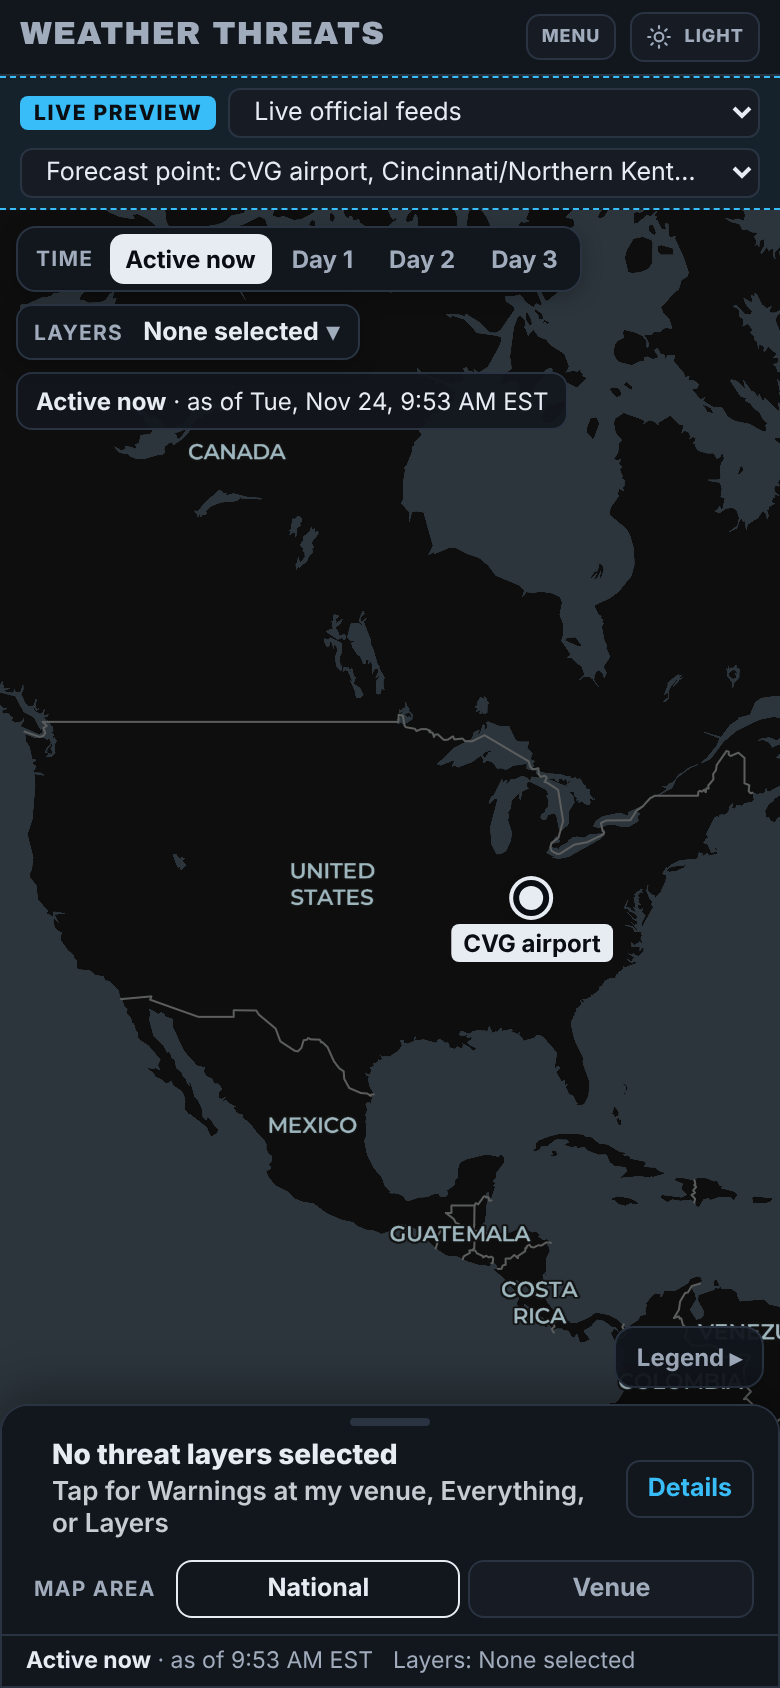
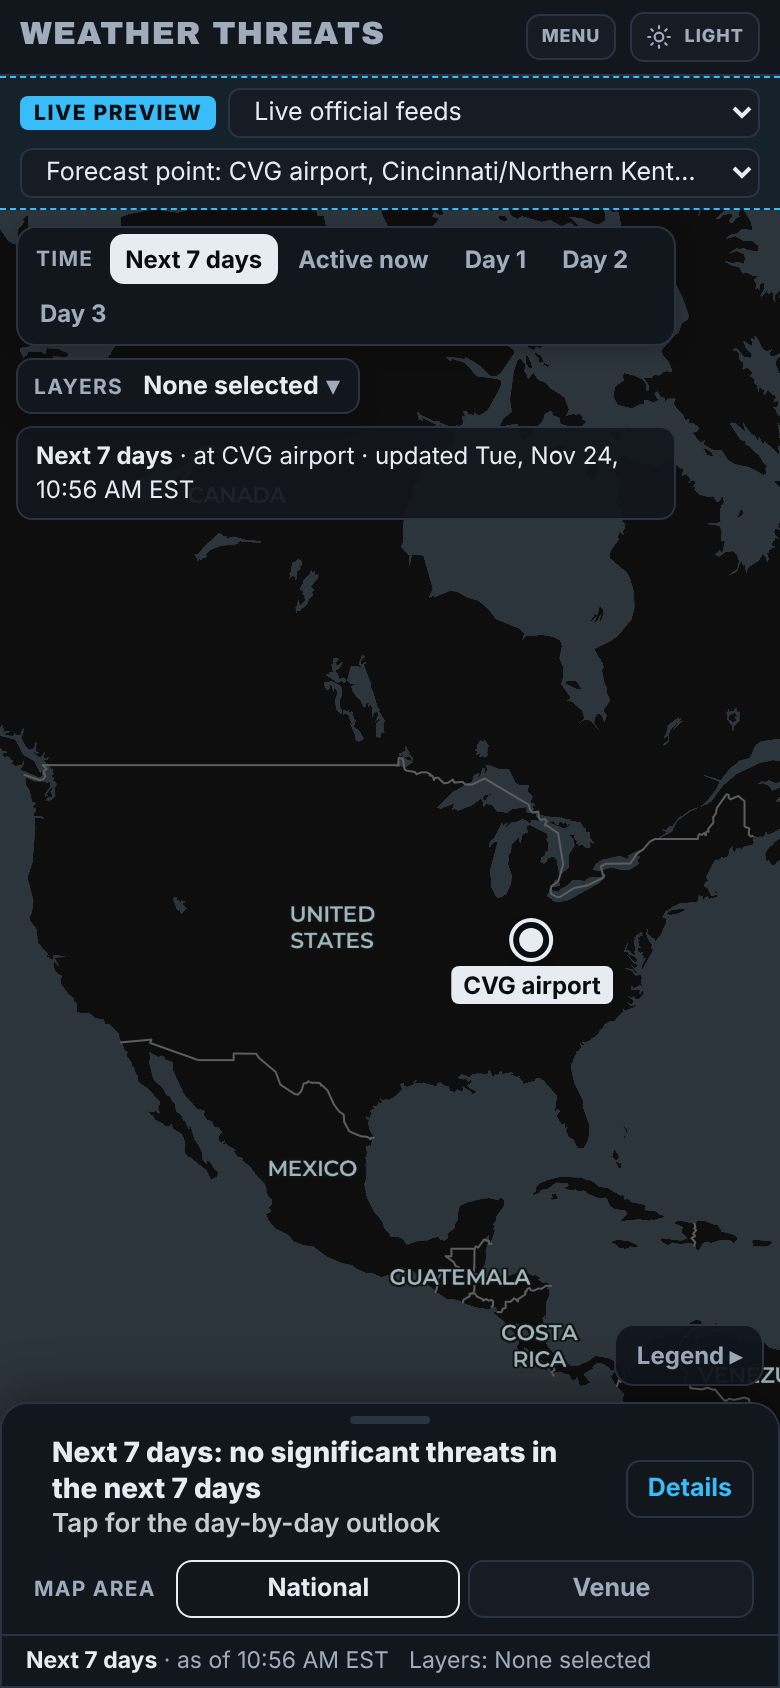
Threats map defaults: radar and the current NWS warnings, watches and advisories on a fresh visit
Severe storms (with storm reports and MDs), Flooding, Winter, Heat & cold, Wind & visibility, Tropical and Coastal, plus radar;
Fire, Smoke & air and Aviation stay off. The panel still opens on the 7-day dashboard. ?layers=none opens with nothing on,
?radar=0 without radar; links that name layers keep them. Checks: the fresh visit expects these defaults; the request-count
sequence starts from ?layers=none.

Claude-Session: https://claude.ai/code/session_01FuwsTd1ts8sKppqNdRhNWw

diff --git a/tools/threats-feeds-check.js b/tools/threats-feeds-check.js
@@ -62,18 +62,22 @@ const DEV = { desktop: { viewport: { width: 1440, height: 900 } }, phone: { view
         feeds: window.ThreatsLive.mapFeeds ? window.ThreatsLive.mapFeeds() : "n/a", products: T.data.products.length }; });
     const since = (reqs, t0) => reqs.filter((r) => r.t >= t0);
 
-    /* 1-4: fresh visit, open the picker, Severe storms alone, then off again */
+    /* 1: a fresh visit: the 7-day dashboard, with radar and the warning, watch and advisory layers on (fire, smoke, aviation off) */
     { const { ctx, p, reqs, other, errs } = await page();
       await p.goto(HOST + PAGE, { waitUntil: "domcontentloaded" }); await ready(p);
-      await p.waitForFunction(() => window.__threats.outlook && ["ok", "failed"].includes(window.__threats.outlook.state), null, { timeout: 120000 }).catch(() => {}); await p.waitForTimeout(3000);
-      const s0 = await state(p), dash = await p.evaluate(() => ({ view: window.__threats.S.view, state: window.__threats.outlook.state, days: document.querySelectorAll("#txPanelBody .px-olday").length, head: (document.querySelector("#txPanelBody .px-olhead .px-big") || {}).textContent, presets: document.querySelectorAll("#txPanelBody [data-preset]").length }));
+      await p.waitForFunction(() => window.__threats.outlook && ["ok", "failed"].includes(window.__threats.outlook.state), null, { timeout: 120000 }).catch(() => {}); await p.waitForTimeout(4000);
+      const s0 = await state(p), dash = await p.evaluate(() => ({ view: window.__threats.S.view, state: window.__threats.outlook.state, days: document.querySelectorAll("#txPanelBody .px-olday").length, head: (document.querySelector("#txPanelBody .px-olhead .px-big") || {}).textContent, radar: window.__threats.radar.state, radarOn: window.__threats.S.radar }));
       const by0 = tally(reqs); rec.fresh = { requests: reqs.length, byFeed: by0, other: Object.fromEntries(other), state: s0, dash };
       await p.screenshot({ path: path.join(OUT, `fresh-${d}.png`) });
-      /* the dashboard's sources only: alerts at the venue's point, its NWS forecast grid, SPC Days 1-8 and fire, WPC rainfall and WSSI-P, NHC,
-         AirNow forecast (through /api/smoke), NOAA river gauges near the venue; never a map layer's feeds (zone outlines, MDs, storm reports, NIFC, HMS smoke, monitors, aviation) */
-      const DASH = ["alerts", "spc", "ero", "fire", "wssi", "nhc", "airnow", "hms", "nws-other", "gauges"], notMap = Object.keys(by0).every((k) => DASH.includes(k)) && !reqs.some((r) => r.feed === "hms" && !/airnow-area/.test(r.url));
-      check(`(${d}) FRESH VISIT: the venue's 7-day dashboard ('${dash.head}', ${dash.days} days) with map layers off ("Layers · None selected"), basemap and venue marker; only the dashboard's sources (${Object.entries(by0).map(([k, v]) => k + " " + v).join(", ")}), no map-layer feed`,
-        dash.view === "outlook" && dash.state === "ok" && dash.days === 7 && dash.presets >= 2 && !s0.layers.length && s0.sum === "None selected" && /^Layers\s*·?\s*None selected/i.test(s0.btn) && s0.basemap && s0.marker && Array.isArray(s0.feeds) && !s0.feeds.length && notMap && !errs.length, { dash, by0, s0, errs });
+      const DEF = ["severe", "flood", "winter", "heat", "wind", "tropical", "coastal"], NOT = ["nifc", "fire-map", "monitors", "awc"], fireMap = reqs.some((r) => r.feed === "fire" && Date.now()); // fire outlooks may come from the dashboard
+      check(`(${d}) FRESH VISIT: the 7-day dashboard ('${dash.head}'); map defaults ${s0.sum}: radar plus the warning, watch and advisory layers; fire, smoke and aviation off (requests: ${Object.entries(by0).map(([k, v]) => k + " " + v).join(", ")})`,
+        dash.view === "outlook" && dash.state === "ok" && dash.days === 7 && dash.radarOn && JSON.stringify(s0.layers) === JSON.stringify(DEF) && s0.sum === "Severe storms, Flooding +5 + Radar" && JSON.stringify(s0.feeds) === '["alerts","ero","md","nhc","reports","spc"]' && by0.alerts >= 1 && !by0.nifc && !by0.monitors && !by0.awc && s0.basemap && s0.marker && !errs.length, { dash, by0, s0, errs });
+      await ctx.close(); }
+    /* 2-4: from no layers (?layers=none): open the picker, Severe storms alone, then off again */
+    { const { ctx, p, reqs, other, errs } = await page();
+      await p.goto(HOST + PAGE + "?layers=none&view=active", { waitUntil: "domcontentloaded" }); await ready(p); await p.waitForTimeout(6000);
+      const s0 = await state(p);
+      check(`(${d}) ?layers=none: every layer off, 'Layers · None selected', no threat-feed request (${reqs.length})`, reqs.length === 0 && !s0.layers.length && s0.sum === "None selected" && !errs.length, { s0, reqs: reqs.map((r) => r.url), errs });
       let t0 = Date.now(); await p.click("#txLayersBtn"); await p.waitForTimeout(5000);
       const pick = since(reqs, t0), sp = await p.evaluate(() => !document.getElementById("txLayersPop").hidden); rec.pickerOpen = { requests: pick.length, byFeed: tally(pick) };
       await p.screenshot({ path: path.join(OUT, `picker-open-${d}.png`) });

diff --git a/tools/threats-fixes-check.js b/tools/threats-fixes-check.js
@@ -45,7 +45,7 @@ const DEV = { desktop: { viewport: { width: 1440, height: 900 } }, phone: { view
       return how; };
 
     /* PRESETS, from a fresh visit */
-    { const { p, reqs, errs } = await page("?view=active", null); await p.waitForTimeout(3000);
+    { const { p, reqs, errs } = await page("?view=active&layers=none", null); await p.waitForTimeout(3000);
       const t0 = Date.now(); await tap(p, '[data-preset="venue"]'); await p.waitForFunction(() => window.__threats.liveReady && !window.__threats.data.loading, null, { timeout: 60000 }); await p.waitForTimeout(6000);
       const st = await p.evaluate(() => ({ layers: Object.keys(window.__threats.S.layers).filter((k) => window.__threats.S.layers[k]), scope: window.__threats.S.scope, feeds: window.ThreatsLive.mapFeeds(), sum: document.getElementById("txLayersSum").textContent }));
       const by = tally(since(reqs, t0)); R.presetVenue = { st, by };
@@ -177,7 +177,7 @@ const DEV = { desktop: { viewport: { width: 1440, height: 900 } }, phone: { view
       const r = await p.evaluate(() => ({ n: window.__threats.data.products.length, watch: window.__threats.data.products.filter((x) => x.kind === "watch").map((x) => x.event), drawn: window.__threats.map.getSource("active")._data.features.length, err: window.__threats.data.loadError, panel: document.getElementById("txPanelBody").innerText.slice(0, 160) }));
       R.ww705 = r; check(`(${d}) REPLAY SPC Tornado Watch 705 loads and draws (${r.watch.join(", ")})`, !r.err && r.watch.includes("Tornado Watch") && r.drawn >= 1 && !errs.length, { r, errs }); await p.screenshot({ path: path.join(OUT, `replay-ww705-${d}.png`) }); await p.close(); }
     /* RADAR: from none; image time; tiles; off stops it; demo: live only */
-    { const { p, reqs, errs } = await page("?view=active"); await p.waitForTimeout(2000); const t0 = Date.now();
+    { const { p, reqs, errs } = await page("?view=active&layers=none"); await p.waitForTimeout(2000); const t0 = Date.now();
       await tap(p, "#txLayersBtn"); await p.locator("#txLayersPop input[data-radar]").check(); await tap(p, "#txLayersPop [data-layers-close]");
       await p.waitForFunction(() => window.__threats.radar.state === "ok" && window.__threats.map.getLayer("radar") && window.__threats.map.areTilesLoaded(), null, { timeout: 60000 }).catch(() => {}); await p.waitForTimeout(3000);
       const on = since(reqs, t0), by = tally(on), st = await p.evaluate(() => { const T = window.__threats, m = T.map; return { state: T.radar.state, valid: T.radar.valid, vis: m.getLayer("radar") && m.getLayoutProperty("radar", "visibility"), below: m.getStyle().layers.findIndex((l) => l.id === "radar") < m.getStyle().layers.findIndex((l) => l.id === "outlook-fill"), sum: document.getElementById("txLayersSum").textContent, row: (document.querySelector('[data-src="radar"]') || {}).innerText, feeds: window.ThreatsLive.mapFeeds() }; });
@@ -192,7 +192,7 @@ const DEV = { desktop: { viewport: { width: 1440, height: 900 } }, phone: { view
     { const { p } = await page("?scenario=overlap&radar=1"); await p.waitForTimeout(1500); const r = await p.evaluate(() => ({ dis: document.querySelector("#txLayersPop input[data-radar]").disabled, layer: !!window.__threats.map.getLayer("radar"), sum: document.getElementById("txLayersSum").textContent }));
       check(`(${d}) RADAR is live only: unavailable on a demo or replay (summary '${r.sum}')`, r.dis && !r.layer && !/Radar/.test(r.sum), r); await p.close(); }
     /* VENUE FORECAST, on request, with no layer on */
-    { const { p, reqs, errs } = await page("?view=active&scope=venue&lat=39.1113&lon=-84.5222&name=TQL%20Stadium&tz=America%2FNew_York"); await p.waitForTimeout(2000);
+    { const { p, reqs, errs } = await page("?view=active&layers=none&scope=venue&lat=39.1113&lon=-84.5222&name=TQL%20Stadium&tz=America%2FNew_York"); await p.waitForTimeout(2000);
       const before = reqs.length, t0 = Date.now(); await tap(p, "[data-vfc]"); await p.waitForSelector('[data-vfc-state="ok"], [data-vfc-state="failed"]', { timeout: 60000 });
       const r = await p.evaluate(() => { const g = document.querySelector(".px-vfc"); return { state: g && g.dataset.vfcState, sum: (document.querySelector(".px-vfcsum") || {}).textContent, rows: document.querySelectorAll(".px-vfcgrid [role=row]").length - 1, foot: ((g && g.querySelector(".lg-note")) || {}).textContent, hs: document.documentElement.scrollWidth > window.innerWidth + 1, data: window.__threats.vfc.data && { office: window.__threats.vfc.data.office, peakGust: window.__threats.vfc.data.peakGust } }; });
       const by = tally(since(reqs, t0)); await p.evaluate(() => window.__threats.drawAll()); await p.waitForTimeout(1000); const again = tally(since(reqs, t0)); R.vfc = { r, by, before };

diff --git a/assets/threats.js b/assets/threats.js
@@ -1624,6 +1624,9 @@
     if (q.get("layers")) { const L = q.get("layers").split(","); if (L.includes("aviation")) S.en.on = true; S.layers = { severe: L.includes("severe"), flood: L.includes("flood"), winter: L.includes("winter"), fire: L.includes("fire"), smoke: L.includes("smoke"), tropical: L.includes("tropical"), coastal: L.includes("coastal"), aviation: L.includes("aviation"), heat: L.includes("heat"), wind: L.includes("wind") }; }
     else if (S.scenario !== "live") Object.keys(S.layers).forEach((k) => (S.layers[k] = true)); // demo and archived samples: their shared selection is every layer
     else if (S.gtg.on || S.ifi.on || q.get("air") || q.get("rt") || q.get("alt")) S.layers.aviation = true; // a live link naming aviation content and no layers
+    /* a fresh live visit: radar and the current NWS warnings, watches and advisories (with storm reports and MDs); fire, smoke and
+       aviation stay off until chosen. ?layers=none opens with nothing, ?radar=0 without radar */
+    else { ["severe", "flood", "winter", "heat", "wind", "tropical", "coastal"].forEach((k) => (S.layers[k] = true)); if (q.get("radar") !== "0") S.radar = true; }
     if (S.view === "winter") S.layers.winter = true;
     if (S.view === "fire") S.layers.fire = true;
     if (FX.WSSI_LEVELS.includes(q.get("wlevel"))) S.wlevel = q.get("wlevel");

diff --git a/threats.html b/threats.html
@@ -177,6 +177,6 @@
 <script src="assets/threats-ifi.js?v=1a8301f4fa"></script>
 <script src="assets/threats-outlook.js?v=882bf1c8ad"></script>
 <script src="assets/threats-live.js?v=c2c2e41ca4"></script>
-<script src="assets/threats.js?v=b88f873c7e"></script>
+<script src="assets/threats.js?v=4392c67ddc"></script>
 </body>
 </html>

diff --git a/docs/threats/MAP.md b/docs/threats/MAP.md
@@ -28,9 +28,10 @@ makes that day "not confirmed", never quiet. Each line opens the map on its view
 
 ## Opening the map
 
-- **A fresh visit draws the street basemap and the venue marker with every threat layer off, and downloads no threat data.** The picker
-  reads **Layers · None selected**; the panel offers **Warnings at my venue** (severe storms, flooding, winter and coastal, venue view),
-  **Everything** (all 8 hazards) and **Choose layers**. On a phone the collapsed sheet says the same in one line.
+- **A fresh live visit** opens the panel on the 7-day dashboard with the map behind it showing **radar and the current NWS
+  warnings, watches and advisories**: Severe storms (with storm reports and MDs), Flooding, Winter, Heat & cold, Wind & visibility,
+  Tropical and Coastal. Fire, Smoke & air and Aviation stay off until chosen (the heaviest feeds). `?layers=none` opens with
+  nothing on (nothing downloaded for the map), `?radar=0` without radar.
 - **Links keep their selection:** `layers=` (and `view`, `scope`, `sel`, venue, airports, altitude, radar, `pin`) restore as sent. A Planner
   "View on map" link opens its own layer. Demo and archived samples open with every layer on.
 - A venue link without `tz=` uses the venue's own time zone (looked up), not Eastern.
